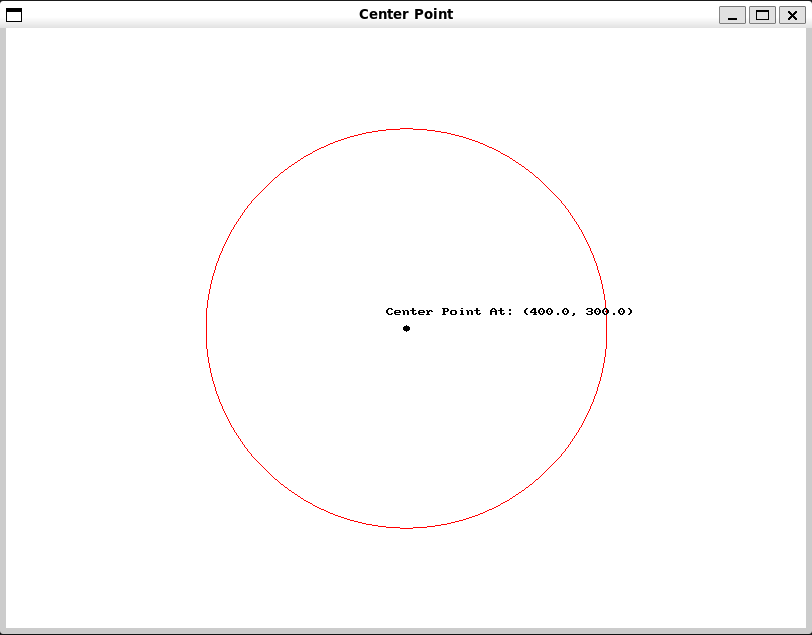
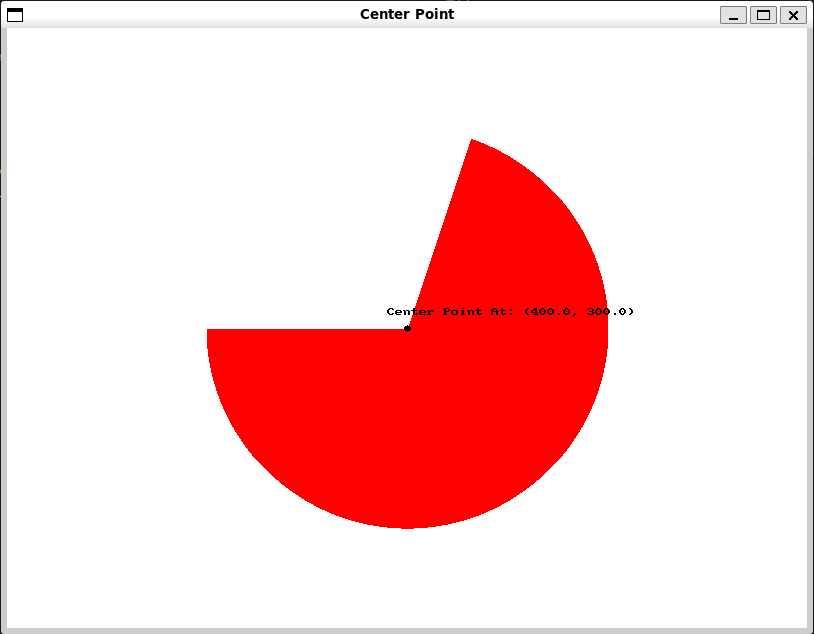
new idea

diff --git a/public/usage-examples/geometry/center_point/center_point-1-simple-oop.cs b/public/usage-examples/geometry/center_point/center_point-1-simple-oop.cs
@@ -16,8 +16,11 @@ namespace CenterPoint
         // Create A circle name "A"
         Circle A = SplashKit.CircleAt(x_position, y_position, 200);
 
-        //Draw the Circle A
-        SplashKit.DrawCircle(Color.Red, A);
+        //Fill the Circle A
+        SplashKit.FillCircle(Color.Red, A);
+
+        //Using the center point to fill a triangle to cut the circle
+        SplashKit.FillTriangle(Color.White, SplashKit.CenterPoint(A).X, SplashKit.CenterPoint(A).Y, 0, 300, 500, 0);
 
         //Draw Point in the center of the circle
         SplashKit.FillCircle(Color.Black, SplashKit.CenterPoint(A).X, SplashKit.CenterPoint(A).Y, 3);

diff --git a/public/usage-examples/geometry/center_point/center_point-1-simple.cpp b/public/usage-examples/geometry/center_point/center_point-1-simple.cpp
@@ -12,8 +12,11 @@ int main()
     //Create a circle at the position (x_position, y_position)
     circle A = circle_at(x_position, y_position, 200);
 
-    //Draw the Circle
-    draw_circle(COLOR_RED, A);
+    //Fill the Circle
+    fill_circle(COLOR_RED, A);
+
+    //Using the center point to fill a triangle to cut the circle
+    fill_triangle(COLOR_WHITE, center_point(A).x, center_point(A).y, 0, 300, 500, 0);
     
     //Draw Point in the center of the circle
     fill_circle(COLOR_BLACK, center_point(A).x, center_point(A).y, 3);

diff --git a/public/usage-examples/geometry/center_point/center_point-1-simple-top-level.cs b/public/usage-examples/geometry/center_point/center_point-1-simple-top-level.cs
@@ -11,8 +11,11 @@ double y_position = 300;
 // Create A circle name "A"
 Circle A = CircleAt(x_position, y_position, 200);
 
-//Draw the Circle A
-DrawCircle(Color.Red, A);
+//Fill the Circle A
+FillCircle(Color.Red, A);
+
+//Using the center point to fill a triangle to cut the circle
+FillTriangle(Color.White, CenterPoint(A).X, CenterPoint(A).Y, 0, 300, 500, 0);
     
 //Draw Point in the center of the circle
 FillCircle(Color.Black, CenterPoint(A).X, CenterPoint(A).Y, 3);
